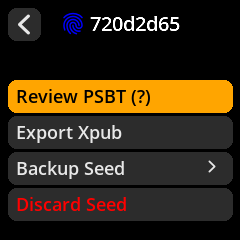
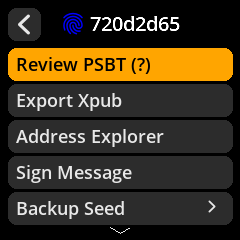
Updates after catch-up merge to v0.5.1 + message_signing branch

diff --git a/en/README.md b/en/README.md
@@ -11,7 +11,7 @@
 
 ## Seed Views
 
-<table style="border: 0;"><tr><td align="center"><table align="left" style="border: 1px solid gray;"><tr><td align="center">SeedsMenuView<br/><br/><img src="SeedsMenuView.png"></td></tr></table><table align="left" style="border: 1px solid gray;"><tr><td align="center">LoadSeedView<br/><br/><img src="LoadSeedView.png"></td></tr></table><table align="left" style="border: 1px solid gray;"><tr><td align="center">SeedMnemonicEntryView<br/><br/><img src="SeedMnemonicEntryView.png"></td></tr></table><table align="left" style="border: 1px solid gray;"><tr><td align="center">SeedMnemonicInvalidView<br/><br/><img src="SeedMnemonicInvalidView.png"></td></tr></table><table align="left" style="border: 1px solid gray;"><tr><td align="center">SeedFinalizeView<br/><br/><img src="SeedFinalizeView.png"></td></tr></table><table align="left" style="border: 1px solid gray;"><tr><td align="center">SeedPassphraseWarningView<br/><br/><img src="SeedPassphraseWarningView.png"></td></tr></table><table align="left" style="border: 1px solid gray;"><tr><td align="center">SeedAddPassphraseView<br/><br/><img src="SeedAddPassphraseView.png"></td></tr></table><table align="left" style="border: 1px solid gray;"><tr><td align="center">SeedReviewPassphraseView<br/><br/><img src="SeedReviewPassphraseView.png"></td></tr></table><table align="left" style="border: 1px solid gray;"><tr><td align="center">SeedOptionsView<br/><br/><img src="SeedOptionsView.png"></td></tr></table><table align="left" style="border: 1px solid gray;"><tr><td align="center">SeedBackupView<br/><br/><img src="SeedBackupView.png"></td></tr></table><table align="left" style="border: 1px solid gray;"><tr><td align="center">SeedWordsWarningView<br/><br/><img src="SeedWordsWarningView.png"></td></tr></table><table align="left" style="border: 1px solid gray;"><tr><td align="center">SeedWordsView<br/><br/><img src="SeedWordsView.png"></td></tr></table><table align="left" style="border: 1px solid gray;"><tr><td align="center">SeedWordsView_2<br/><br/><img src="SeedWordsView_2.png"></td></tr></table><table align="left" style="border: 1px solid gray;"><tr><td align="center">SeedTranscribeSeedQRFormatView<br/><br/><img src="SeedTranscribeSeedQRFormatView.png"></td></tr></table><table align="left" style="border: 1px solid gray;"><tr><td align="center">SeedTranscribeSeedQRWarningView<br/><br/><img src="SeedTranscribeSeedQRWarningView.png"></td></tr></table><table align="left" style="border: 1px solid gray;"><tr><td align="center">SeedTranscribeSeedQRWholeQRView_12_Standard<br/><br/><img src="SeedTranscribeSeedQRWholeQRView_12_Standard.png"></td></tr></table><table align="left" style="border: 1px solid gray;"><tr><td align="center">SeedTranscribeSeedQRWholeQRView_12_Compact<br/><br/><img src="SeedTranscribeSeedQRWholeQRView_12_Compact.png"></td></tr></table><table align="left" style="border: 1px solid gray;"><tr><td align="center">SeedTranscribeSeedQRConfirmQRPromptView<br/><br/><img src="SeedTranscribeSeedQRConfirmQRPromptView.png"></td></tr></table><table align="left" style="border: 1px solid gray;"><tr><td align="center">LoadMultisigWalletDescriptorView<br/><br/><img src="LoadMultisigWalletDescriptorView.png"></td></tr></table><table align="left" style="border: 1px solid gray;"><tr><td align="center">MultisigWalletDescriptorView<br/><br/><img src="MultisigWalletDescriptorView.png"></td></tr></table></td></tr></table>
+<table style="border: 0;"><tr><td align="center"><table align="left" style="border: 1px solid gray;"><tr><td align="center">SeedsMenuView<br/><br/><img src="SeedsMenuView.png"></td></tr></table><table align="left" style="border: 1px solid gray;"><tr><td align="center">LoadSeedView<br/><br/><img src="LoadSeedView.png"></td></tr></table><table align="left" style="border: 1px solid gray;"><tr><td align="center">SeedMnemonicEntryView<br/><br/><img src="SeedMnemonicEntryView.png"></td></tr></table><table align="left" style="border: 1px solid gray;"><tr><td align="center">SeedMnemonicInvalidView<br/><br/><img src="SeedMnemonicInvalidView.png"></td></tr></table><table align="left" style="border: 1px solid gray;"><tr><td align="center">SeedFinalizeView<br/><br/><img src="SeedFinalizeView.png"></td></tr></table><table align="left" style="border: 1px solid gray;"><tr><td align="center">SeedPassphraseWarningView<br/><br/><img src="SeedPassphraseWarningView.png"></td></tr></table><table align="left" style="border: 1px solid gray;"><tr><td align="center">SeedAddPassphraseView<br/><br/><img src="SeedAddPassphraseView.png"></td></tr></table><table align="left" style="border: 1px solid gray;"><tr><td align="center">SeedReviewPassphraseView<br/><br/><img src="SeedReviewPassphraseView.png"></td></tr></table><table align="left" style="border: 1px solid gray;"><tr><td align="center">SeedOptionsView<br/><br/><img src="SeedOptionsView.png"></td></tr></table><table align="left" style="border: 1px solid gray;"><tr><td align="center">SeedBackupView<br/><br/><img src="SeedBackupView.png"></td></tr></table><table align="left" style="border: 1px solid gray;"><tr><td align="center">SeedWordsWarningView<br/><br/><img src="SeedWordsWarningView.png"></td></tr></table><table align="left" style="border: 1px solid gray;"><tr><td align="center">SeedWordsView<br/><br/><img src="SeedWordsView.png"></td></tr></table><table align="left" style="border: 1px solid gray;"><tr><td align="center">SeedWordsView_2<br/><br/><img src="SeedWordsView_2.png"></td></tr></table><table align="left" style="border: 1px solid gray;"><tr><td align="center">SeedTranscribeSeedQRFormatView<br/><br/><img src="SeedTranscribeSeedQRFormatView.png"></td></tr></table><table align="left" style="border: 1px solid gray;"><tr><td align="center">SeedTranscribeSeedQRWarningView<br/><br/><img src="SeedTranscribeSeedQRWarningView.png"></td></tr></table><table align="left" style="border: 1px solid gray;"><tr><td align="center">SeedTranscribeSeedQRWholeQRView_12_Standard<br/><br/><img src="SeedTranscribeSeedQRWholeQRView_12_Standard.png"></td></tr></table><table align="left" style="border: 1px solid gray;"><tr><td align="center">SeedTranscribeSeedQRWholeQRView_12_Compact<br/><br/><img src="SeedTranscribeSeedQRWholeQRView_12_Compact.png"></td></tr></table><table align="left" style="border: 1px solid gray;"><tr><td align="center">SeedTranscribeSeedQRConfirmQRPromptView<br/><br/><img src="SeedTranscribeSeedQRConfirmQRPromptView.png"></td></tr></table><table align="left" style="border: 1px solid gray;"><tr><td align="center">LoadMultisigWalletDescriptorView<br/><br/><img src="LoadMultisigWalletDescriptorView.png"></td></tr></table><table align="left" style="border: 1px solid gray;"><tr><td align="center">MultisigWalletDescriptorView<br/><br/><img src="MultisigWalletDescriptorView.png"></td></tr></table><table align="left" style="border: 1px solid gray;"><tr><td align="center">SeedSelectSeedView_SignMessage<br/><br/><img src="SeedSelectSeedView_SignMessage.png"></td></tr></table><table align="left" style="border: 1px solid gray;"><tr><td align="center">SeedSignMessageConfirmView<br/><br/><img src="SeedSignMessageConfirmView.png"></td></tr></table></td></tr></table>
 
 ---
 
